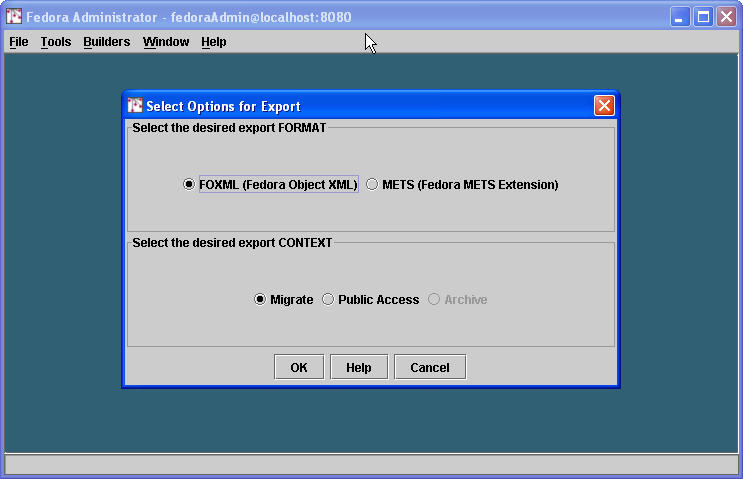
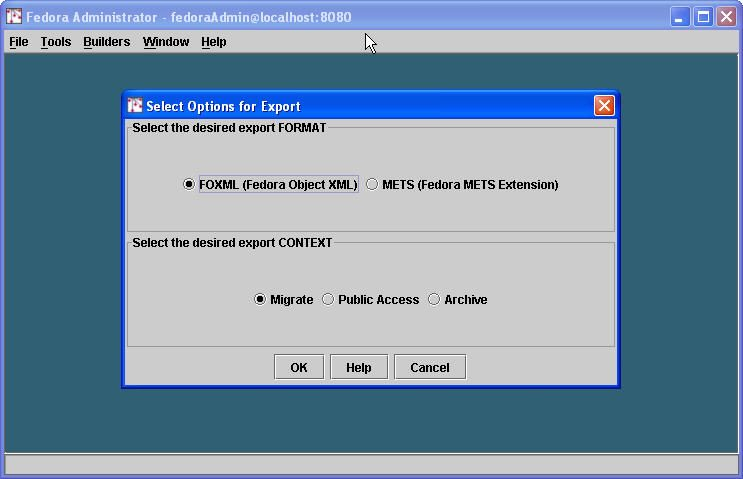
Documented the archive format and changed the export options screen shot
git-svn-id: svn://svn.code.sf.net/p/fedora-commons/code/fedora/trunk@5522 6cc838c6-e627-0410-8cce-a6db3432f928

diff --git a/src/doc/userdocs/digitalobjects/ingestExport.html b/src/doc/userdocs/digitalobjects/ingestExport.html
@@ -79,7 +79,7 @@
 	<li><strong>migrate: </strong> selecting the migrate context will ensure that the export file is encoded in a manner appropriate for migrating an object from one Fedora repository to another.  The important feature to note here is that when a Fedora object's datastream contains a URL that is relative to the repository in which the object resides, the migrate option will ensure that the URL remains relative in the <em>new</em> repository.  Any repository-relative URLs will be encoded in the export file with the special string &quot;fedora.local.server&quot; in place of the actual hostname and port of the repository. When the export file is ingested into another Fedora repository, these URLs will become relative to the hostname and port of the new repository. <br></br></li>
 	<li><strong>public: </strong> selecting the public context will ensure that the export file is encoded in a manner appropriate for processing the digital object outside the context of a Fedora repository.  The file will contain callback URLs for all content stored inside the Fedora repository.  The assumption is that this file must not contain any internal identifiers that are only meaningful inside a Fedora repository.  Instead, all internal identifiers that point to datastream content inside a Fedora repository are converted to public access URLs.  These URLs are Fedora dissemination requests (upon API-A-LITE) for obtaining datastream content stored in the repository.   
 <br></br></li>
-	<li><strong>archive: </strong>  the archive context is not available in Fedora 2.0.  In the future this option will be enabled to produce an export file that is self-contained, meaning that all datastream content is within the export file.  The file will serve as a self-contained archive of the digital object.  All XML content will be directly inlined within the XML export file.  All binary content will be base64-encoded within the export file.  There will be no callback URLs for datastream content.  This will be a true dump of a digital object to a single file.   </li>
+	<li><strong>archive: </strong> selecting the archive context wil ensure that the export file is completely self-contained.  Any datastreams that are stored within the Fedora repository (ie. datastreams of type Managed) the content of the datastream will be directly stored in the resulting XML file as base64-encoded data.  The file produced serves as a self-contained archive of the digital object.  Using this format it is possible to export any object stored in a Fedora repository and then subsequently ingest that object into a different Fedora repository even when the original repository is no longer accessible, or even no longer running.</li>
 </ul>
 <br></br>
 <p><img src="images/exportoptions.jpg"/></p>
